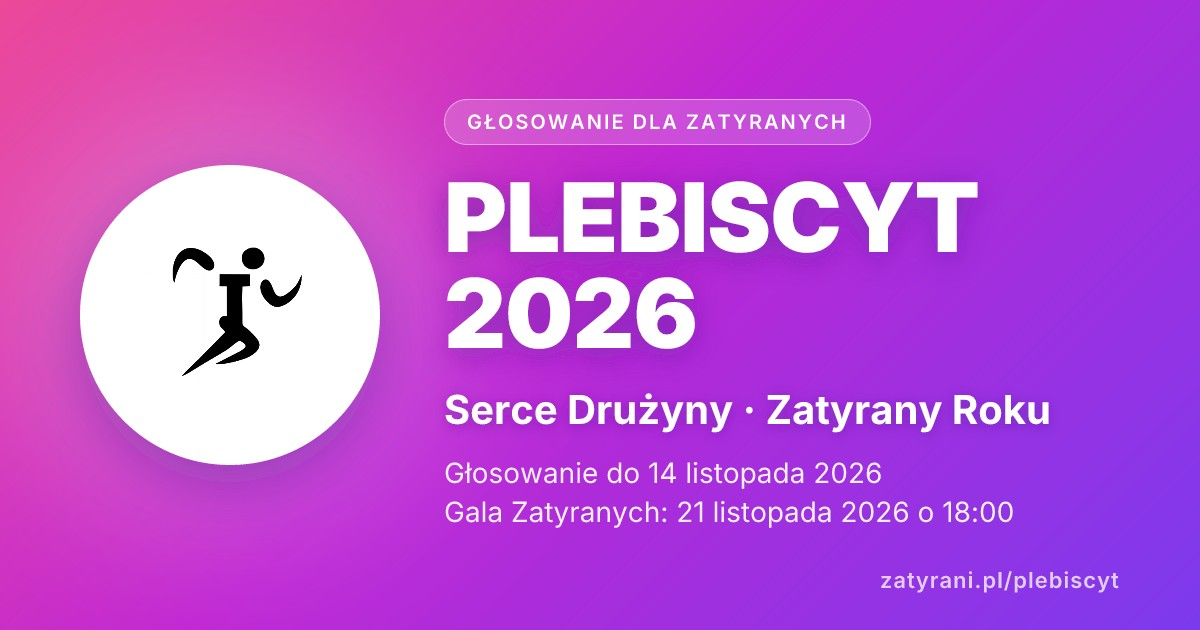
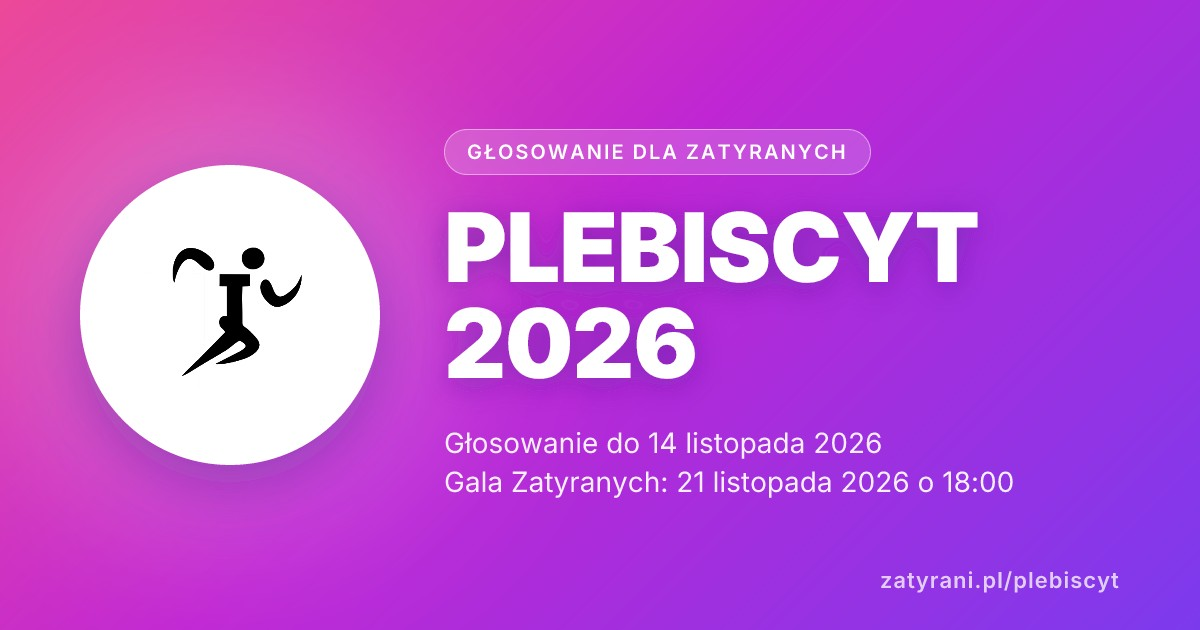
feat(plebiscyt): drop category names from the OG image and description

Changed region(s): [[0.37, 0.1508, 0.8942, 0.8444], [0.7708, 0.3921, 0.8017, 0.4524]]

diff --git a/scripts/generate-plebiscyt-og.tsx b/scripts/generate-plebiscyt-og.tsx
@@ -15,9 +15,8 @@ const imageSize = {
 }
 
 // Plebiscyt for members. Pink -> purple like the page header, logo on the left.
-// Categories and dates come from the plebiscyt config, so the image follows it.
+// Dates come from the plebiscyt config, so the image follows it.
 const PlebiscytImage = ({ logo }: { logo: string }) => {
-  const categories = PLEBISCYT.categories.map((c) => c.label)
   return (
     <div
       style={{
@@ -93,24 +92,10 @@ const PlebiscytImage = ({ logo }: { logo: string }) => {
             lineHeight: 1,
             letterSpacing: '-1px',
             textShadow: '0 6px 30px rgba(76, 29, 149, 0.5)',
-            marginBottom: '24px',
+            marginBottom: '32px',
           }}
         >
           {`PLEBISCYT ${PLEBISCYT.edition}`}
-        </div>
-
-        {/* Categories */}
-        <div
-          style={{
-            display: 'flex',
-            color: 'white',
-            fontSize: '40px',
-            fontWeight: 700,
-            textShadow: '0 2px 12px rgba(76, 29, 149, 0.45)',
-            marginBottom: '20px',
-          }}
-        >
-          {categories.join(' · ')}
         </div>
 
         {/* Dates */}
